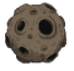
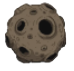
взрыв коробля после смерти

diff --git a/pythonProject3/main.py b/pythonProject3/main.py
@@ -4,6 +4,7 @@ import os
 import random
 import time
 
+from pygame.examples.cursors import image
 
 # Инициализация Pygame
 pygame.init()
@@ -198,7 +199,8 @@ def restart_game():
 
 
 class Meteorites(pygame.sprite.Sprite):
-    image = load_image("meteor.png", -1)  # Указываем colorkey
+    image = load_image("meteor.png", -1) # Указываем colorkey
+    image = pygame.transform.scale(image, (65, 65))
 
     def __init__(self, group):
         super().__init__(group)
@@ -224,11 +226,14 @@ meteor_creation_interval = 9
 
 class Spaceship(pygame.sprite.Sprite):
     spaceship_image = load_image('spaceship.png', colorkey=(255, 255, 255))
+    image_boom = load_image("boom.png")
     health_point = 100
 
     def __init__(self, group):
         super().__init__(group)
         self.image = Spaceship.spaceship_image
+        self.imageb = Spaceship.image_boom
+        self.imageb = pygame.transform.scale(Spaceship.image_boom, (120, 120))
         self.image = pygame.transform.scale(Spaceship.spaceship_image, (80, 80))
         self.rect = self.image.get_rect()
         self.rect = self.image.get_rect()
@@ -236,10 +241,20 @@ class Spaceship(pygame.sprite.Sprite):
         self.rect.bottom = height - 10
         self.speed = 3
         self.health_point = Spaceship.health_point
+        self.dead = False
+        self.boom_time = 0
 
-    def update(self):
-        if self.health_point <= 0:
+    def update(self, *args):
+        if self.health_point <= 0 and not self.dead:
+            self.image = self.imageb
+            self.dead = True
+            self.boom_time = pygame.time.get_ticks()
+            self.speed = 0
+
+        if self.dead and pygame.time.get_ticks() - self.boom_time > 600:
+            time.sleep(0.5)
             death_screen()
+
         keys = pygame.key.get_pressed()
         if keys[pygame.K_LEFT]:
             self.rect.x -= self.speed
